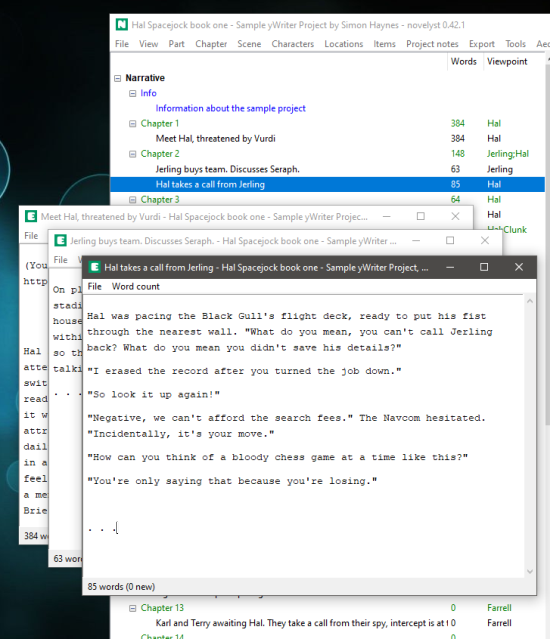
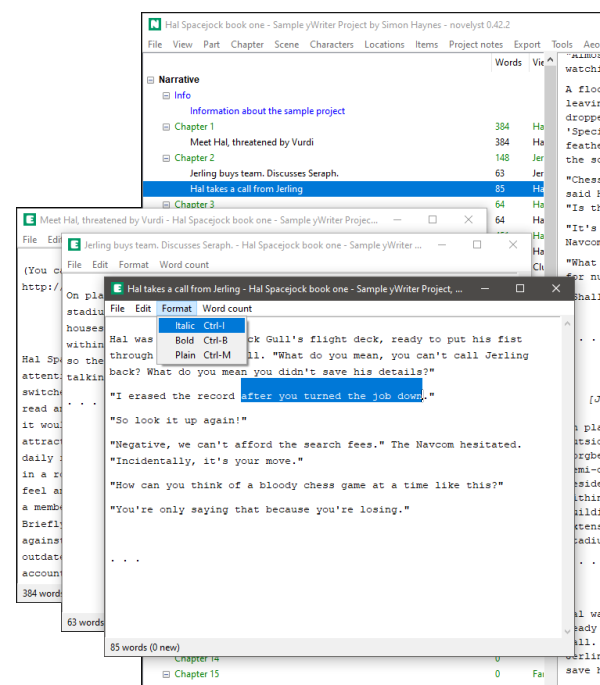
Prepare v0.14.0, compatible with novelyst v0.42 API
- Change the hotkey for scene splitting to **Ctrl-Alt-S**
- Add an **Edit** menu.
- Add a **Format** menu.
- Prepare a button bar (commented out).

diff --git a/src/nveditorlib/scene_editor.py b/src/nveditorlib/scene_editor.py
@@ -12,7 +12,7 @@ from nveditorlib.text_box import TextBox
 KEY_QUIT_PROGRAM = ('<Control-q>', 'Ctrl-Q')
 KEY_APPLY_CHANGES = ('<Control-s>', 'Ctrl-S')
 KEY_UPDATE_WORDCOUNT = ('<F5>', 'F5')
-KEY_SPLIT_SCENE = ('<Control-n>', 'Ctrl-N')
+KEY_SPLIT_SCENE = ('<Control-Alt-s>', 'Ctrl-Alt-S')
 KEY_ITALIC = ('<Control-i>', 'Ctrl-I')
 KEY_BOLD = ('<Control-b>', 'Ctrl-B')
 KEY_PLAIN = ('<Control-m>', 'Ctrl-M')
@@ -35,26 +35,13 @@ class SceneEditor(tk.Toplevel):
 
         # Add a main menu bar to the editor window.
         self._mainMenu = tk.Menu(self)
-
-        # Add a "File" Submenu to the editor window.
-        self._fileMenu = tk.Menu(self._mainMenu, tearoff=0)
-        self._mainMenu.add_cascade(label=_('File'), menu=self._fileMenu)
-        self._fileMenu.add_command(label=_('Split at cursor position'), accelerator=KEY_SPLIT_SCENE[1], command=self._split_scene)
-        self._fileMenu.add_separator()
-        self._fileMenu.add_command(label=_('Apply changes'), accelerator=KEY_APPLY_CHANGES[1], command=self._apply_changes)
-        self._fileMenu.add_command(label=_('Exit'), accelerator=KEY_QUIT_PROGRAM[1], command=self.on_quit)
         self.config(menu=self._mainMenu)
 
-        # Add a "Word count" Submenu to the editor window.
-        self._wcMenu = tk.Menu(self._mainMenu, tearoff=0)
-        self._mainMenu.add_cascade(label=_('Word count'), menu=self._wcMenu)
-        self._wcMenu.add_command(label=_('Update'), accelerator=KEY_UPDATE_WORDCOUNT[1], command=self.show_wordcount)
-        self._wcMenu.add_command(label=_('Enable live update'), command=self._live_wc_on)
-        self._wcMenu.add_command(label=_('Disable live update'), command=self._live_wc_off)
-
-        # Add a buttonbar to the editor window.
+        '''
+        # Add a button bar to the editor window.
         self._buttonBar = tk.Frame(self)
         self._buttonBar.pack(expand=False, fill=tk.BOTH)
+        '''
 
         # Add a text editor with scrollbar to the editor window.
         self._sceneEditor = TextBox(self, wrap='word', undo=True, autoseparators=True, spacing1=15, spacing2=5, maxundo=-1, height=25, width=60, padx=5, pady=5)
@@ -70,6 +57,46 @@ class SceneEditor(tk.Toplevel):
             self._sceneEditor.set_text(self._scene.sceneContent)
         self._initialWc = self._sceneEditor.count_words()
         self.show_wordcount()
+
+        #--- Configure the user interface.
+
+        '''
+        # Add buttons to the button bar.
+        tk.Button(self._buttonBar, text=_('Copy'), command=lambda: self._sceneEditor.event_generate("<<Copy>>")).pack(side=tk.LEFT)
+        tk.Button(self._buttonBar, text=_('Cut'), command=lambda: self._sceneEditor.event_generate("<<Cut>>")).pack(side=tk.LEFT)
+        tk.Button(self._buttonBar, text=_('Paste'), command=lambda: self._sceneEditor.event_generate("<<Paste>>")).pack(side=tk.LEFT)
+        tk.Button(self._buttonBar, text=_('Italic'), command=self._sceneEditor.italic).pack(side=tk.LEFT)
+        tk.Button(self._buttonBar, text=_('Bold'), command=self._sceneEditor.bold).pack(side=tk.LEFT)
+        '''
+
+        # Add a "File" Submenu to the editor window.
+        self._fileMenu = tk.Menu(self._mainMenu, tearoff=0)
+        self._mainMenu.add_cascade(label=_('File'), menu=self._fileMenu)
+        self._fileMenu.add_command(label=_('Apply changes'), accelerator=KEY_APPLY_CHANGES[1], command=self._apply_changes)
+        self._fileMenu.add_command(label=_('Exit'), accelerator=KEY_QUIT_PROGRAM[1], command=self.on_quit)
+
+        # Add an "Edit" Submenu to the editor window.
+        self._editMenu = tk.Menu(self._mainMenu, tearoff=0)
+        self._mainMenu.add_cascade(label=_('Edit'), menu=self._editMenu)
+        self._editMenu.add_command(label=_('Copy'), accelerator='Ctrl-C', command=lambda: self._sceneEditor.event_generate("<<Copy>>"))
+        self._editMenu.add_command(label=_('Cut'), accelerator='Ctrl-X', command=lambda: self._sceneEditor.event_generate("<<Cut>>"))
+        self._editMenu.add_command(label=_('Paste'), accelerator='Ctrl-V', command=lambda: self._sceneEditor.event_generate("<<Paste>>"))
+        self._editMenu.add_separator()
+        self._editMenu.add_command(label=_('Split at cursor position'), accelerator=KEY_SPLIT_SCENE[1], command=self._split_scene)
+
+        # Add a "Format" Submenu to the editor window.
+        self._formatMenu = tk.Menu(self._mainMenu, tearoff=0)
+        self._mainMenu.add_cascade(label=_('Format'), menu=self._formatMenu)
+        self._formatMenu.add_command(label=_('Italic'), accelerator=KEY_ITALIC[1], command=self._sceneEditor.italic)
+        self._formatMenu.add_command(label=_('Bold'), accelerator=KEY_BOLD[1], command=self._sceneEditor.bold)
+        self._formatMenu.add_command(label=_('Plain'), accelerator=KEY_PLAIN[1], command=self._sceneEditor.plain)
+
+        # Add a "Word count" Submenu to the editor window.
+        self._wcMenu = tk.Menu(self._mainMenu, tearoff=0)
+        self._mainMenu.add_cascade(label=_('Word count'), menu=self._wcMenu)
+        self._wcMenu.add_command(label=_('Update'), accelerator=KEY_UPDATE_WORDCOUNT[1], command=self.show_wordcount)
+        self._wcMenu.add_command(label=_('Enable live update'), command=self._live_wc_on)
+        self._wcMenu.add_command(label=_('Disable live update'), command=self._live_wc_off)
 
         # Event bindings.
         self.bind_class('Text', KEY_APPLY_CHANGES[0], self._apply_changes)

diff --git a/docs/index.md b/docs/index.md
@@ -25,9 +25,9 @@ The [novelyst](https://peter88213.github.io/novelyst/) Python program provides a
 
 ## Download and install
 
-[Download the latest release (version 0.12.0)](https://github.com/peter88213/novelyst_editor/raw/main/dist/novelyst_editor_v0.12.0.zip)
+[Download the latest release (version 0.14.0)](https://github.com/peter88213/novelyst_editor/raw/main/dist/novelyst_editor_v0.14.0.zip)
 
-- Unzip the downloaded zipfile "novelyst_editor_v0.12.0.zip" into a new folder.
+- Unzip the downloaded zipfile "novelyst_editor_v0.14.0.zip" into a new folder.
 - Move into this new folder and launch **setup.pyw**. This installs the application for the local user.
 - Open "README.md" for usage instructions.
 

diff --git a/docs/changelog.md b/docs/changelog.md
@@ -4,7 +4,15 @@
 
 ## Changelog
 
-### v0.12.0
+### v0.14.0 User interface enhancements
+
+- Change the hotkey for scene splitting to **Ctrl-Alt-S**
+- Add an **Edit** menu.
+- Add a **Format** menu.
+
+Compatibility: novelyst v0.42 API
+
+### v0.12.0 Formatting improvements
 
 - Provide a key shortcut for plain formatting.
 - Try to avoid nesting when formatting selections.
@@ -12,7 +20,7 @@
 
 Compatibility: novelyst v0.42 API
 
-### v0.10.0
+### v0.10.0 Formatting improvements
 
 - Provide key shortcuts for bold and italic formatting.
 

diff --git a/docs/usage.md b/docs/usage.md
@@ -47,7 +47,7 @@ The plugin adds an "Edit" entry to the *novelyst* "Scene" menu.
 
 ### Split a scene
 
-Via **File > Split at cursor position** or **Ctrl-N** you can split the scene at the cursor position. 
+Via **File > Split at cursor position** or **Ctrl-Alt-S** you can split the scene at the cursor position. 
 
 - All the text from the cursor position is cut and pasted into a newly created scene. 
 - The new scene is placed after the currently edited scene.
